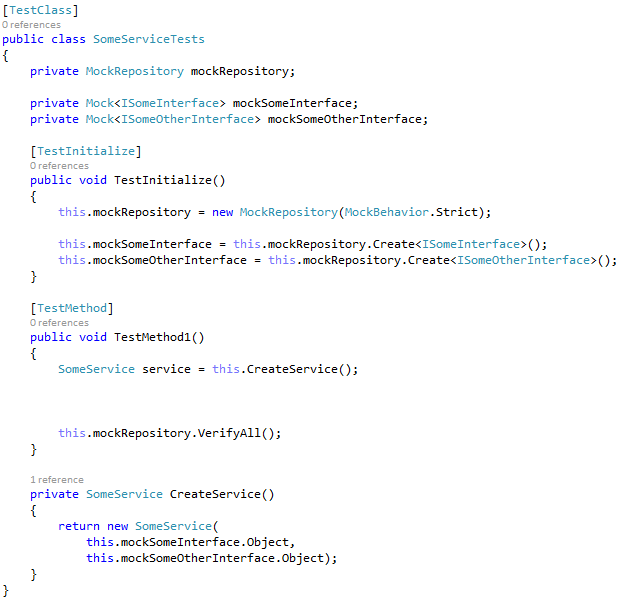
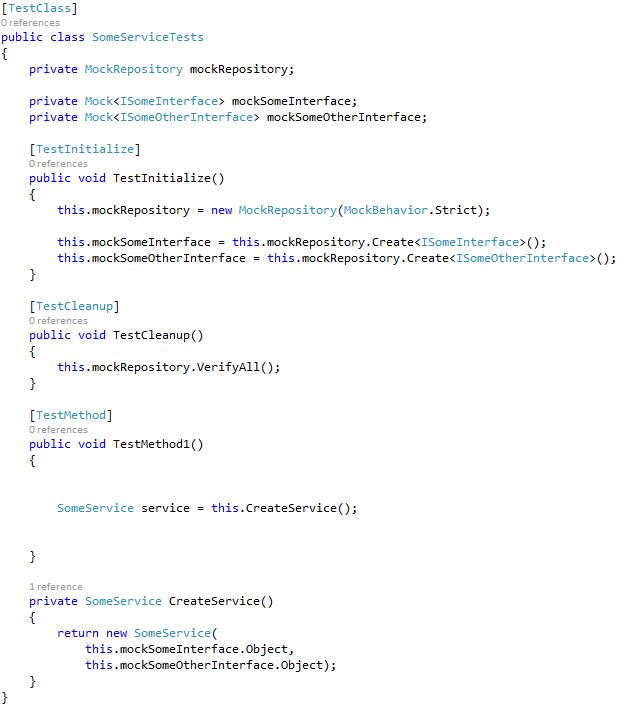
Updated readme to reflect [TestCleanup] addition.

Changed region(s): [[0.0, 0.0, 1.0, 0.6589], [0.0304, 0.7787, 0.5481, 0.9584], [0.0913, 0.6889, 0.5785, 0.7488]]

diff --git a/README.md b/README.md
@@ -21,8 +21,8 @@ You can then call .Setup() and .Verify() on the mocks in your test methods.
 ![After Screenshot](AfterScreenshot.png)
 
 The mock repository is set up as Strict by default, which means that it expects every call to a mock object
-to have a .Setup() call for it. The VerifyAll() call at the end ensures that all of the setups in any mock
-object have been invoked at least once.
+to have a .Setup() call for it. The [TestCleanup] method will call VerifyAll() for you at the end of every test:
+this ensures that all of the setups in any mock object have been invoked at least once.
 
 See the [changelog](CHANGELOG.md) for changes and roadmap.
 
